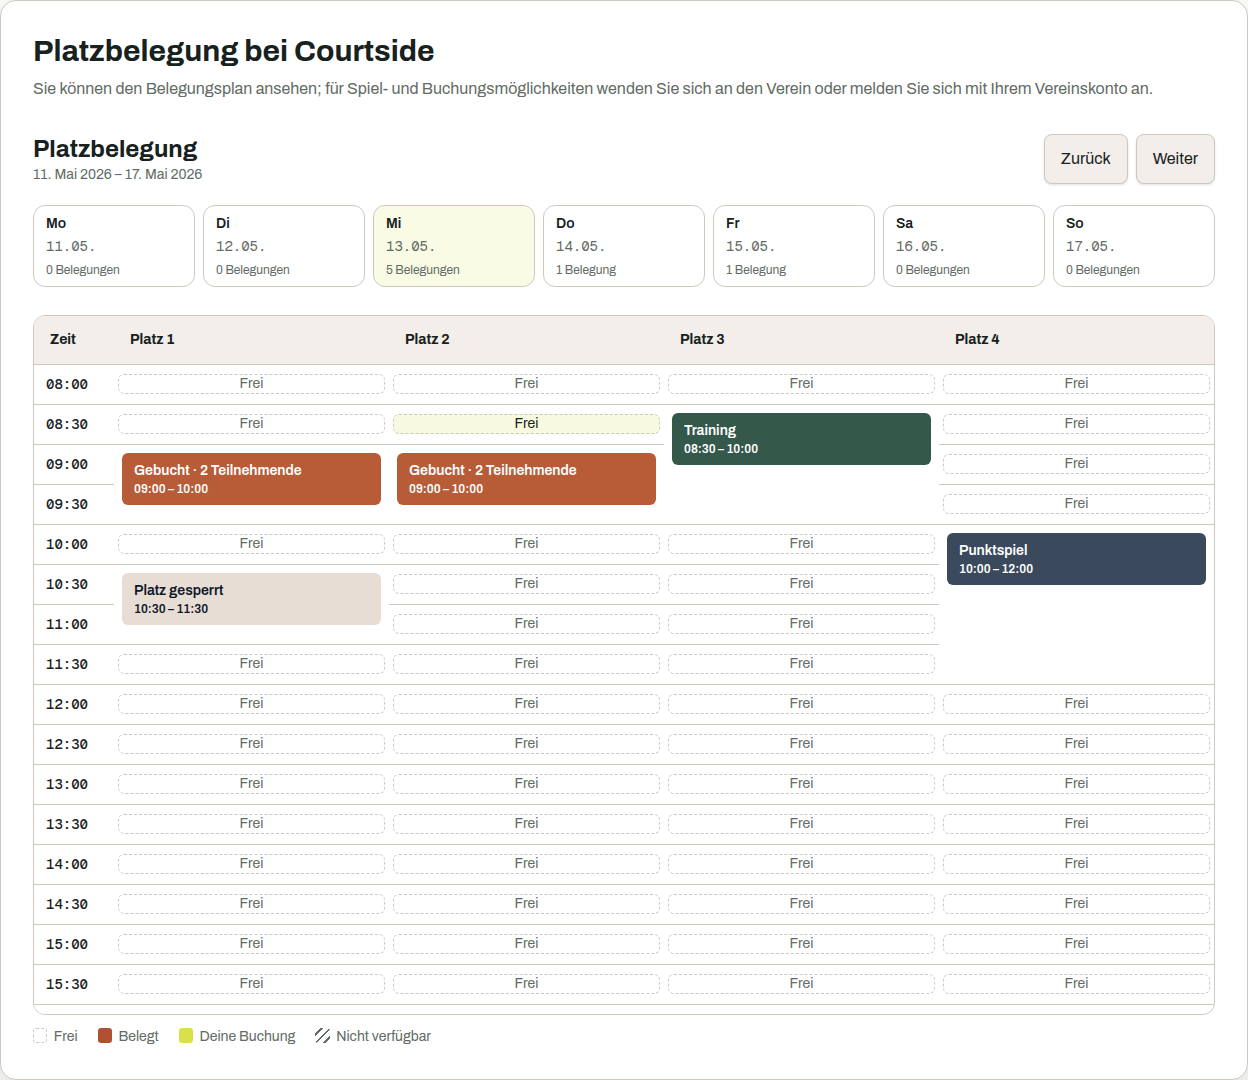
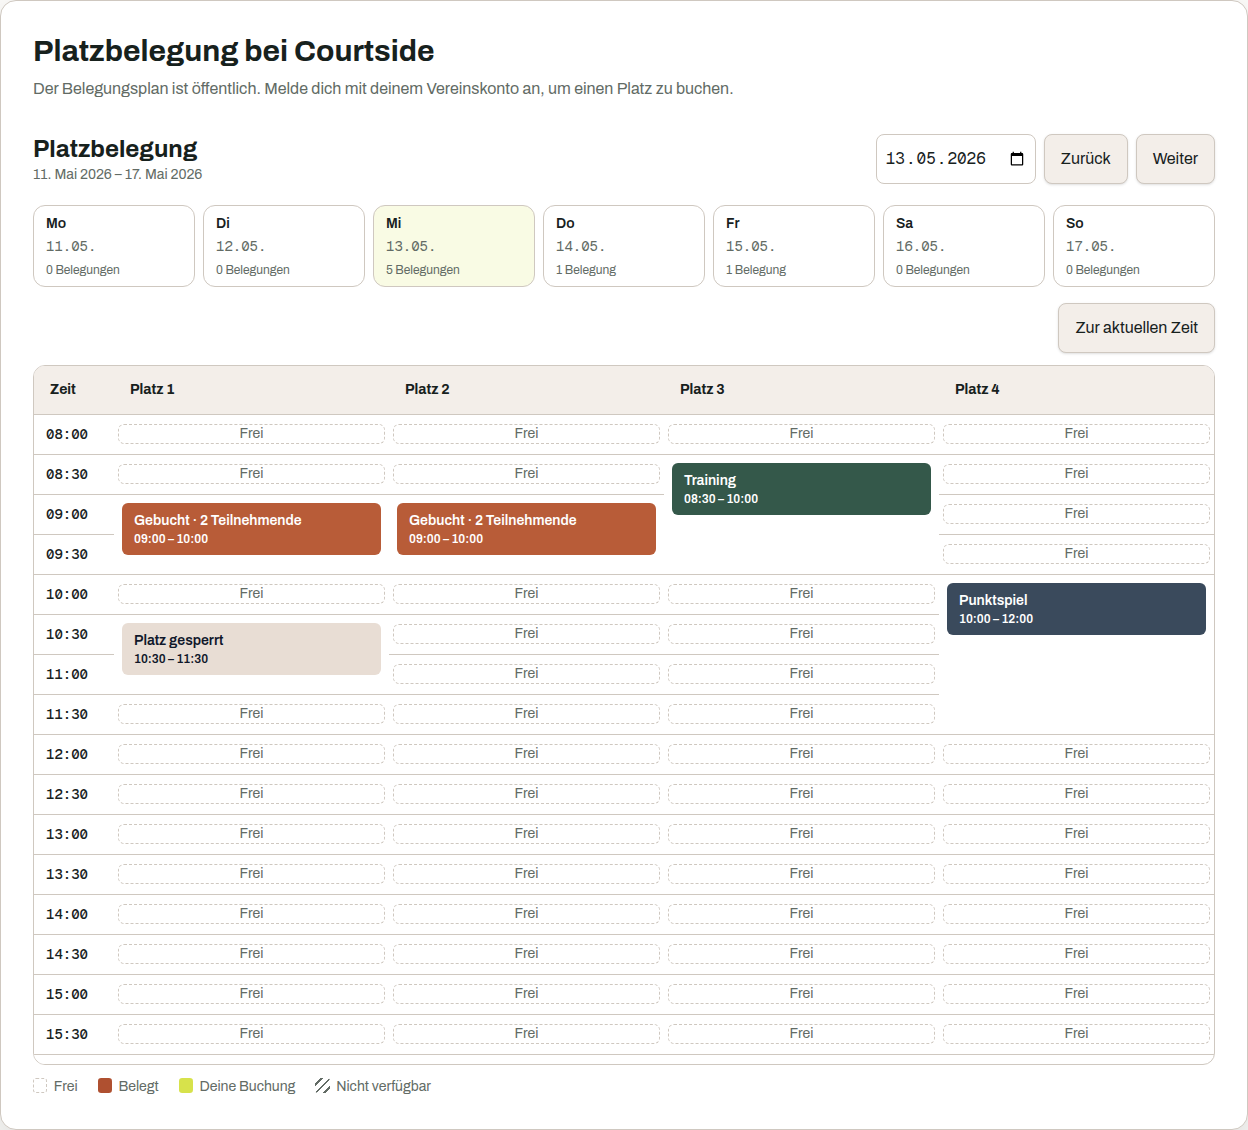
feat: let the court plan jump to a date (#993)
* feat: let the court plan jump to a date, and return to now from any week

Stepping a week at a time was the only way to reach a date on a wide screen.
The day cards offer the week on screen and nothing beyond it, so a club looking
at a date three months out clicked thirteen times to get there.

A date of its own now sits beside the week navigation. The mechanism was
already there: `selectDate` derives the week offset from the target date, which
is what the narrow layout's date field has always used, so choosing any day
moves the week with it. The narrow layout keeps its own sticky field, and the
new one is hidden below the width where that takes over, so neither duplicates
the other.

`Return to current time` was bound to `isToday`, so it disappeared exactly when
it was needed: on any other day there was no way back except counting weeks in
the other direction. Both member handbooks already told a member to "select
Return to current time to return to today" - the sentence was right and the
implementation never did it. The button is now always present and does the two
things its name covers: on today it scrolls to the current time as before, and
on any other day it returns to today, week included.

Falsified: the return case fails on its assertion when the button renders but
only scrolls, rather than on a missing element, so it measures the journey home
and not the button's presence.

The three court-plan captures moved and no other baseline did, which is the
[…]

diff --git a/frontend/src/views/WeekView.test.tsx b/frontend/src/views/WeekView.test.tsx
@@ -1271,3 +1271,43 @@ it("given the courts cannot be read, when the plan fails, then the failure is sh
   expect(await screen.findByRole("alert")).toHaveTextContent("That did not work. Please try again.");
   expect(screen.queryByTestId("court-plan-empty")).toBeNull();
 });
+
+it("given the wide layout, when a date in another week is chosen there, then that week is shown", async () => {
+  // given — the day cards only ever offer the week on screen, so jumping needs a date of its own
+  render(<WeekView today={clubInstant("12:00")} />);
+  await screen.findByTestId("week-grid");
+
+  // when
+  fireEvent.change(screen.getByTestId("week-date"), { target: { value: "2026-08-26" } });
+
+  // then
+  await waitFor(() => expect(api.allocations).toHaveBeenCalledWith("2026-08-26"));
+  expect(screen.getByTestId("week-date")).toHaveValue("2026-08-26");
+  expect(screen.getByTestId("day-selector-2026-08-26")).toHaveAttribute("aria-pressed", "true");
+});
+
+it("given the plan is still loading, when the date control is shown, then it cannot discard a selection", () => {
+  // given
+  vi.mocked(api.bookingGrid).mockImplementation(() => new Promise(() => undefined));
+
+  // when
+  render(<WeekView today={clubInstant("12:00")} />);
+
+  // then
+  expect(screen.getByTestId("week-date")).toBeDisabled();
+});
+
+it("given a day in another week, when returning to the current time, then today is shown again", async () => {
+  // given
+  render(<WeekView today={clubInstant("12:00")} />);
+  await screen.findByTestId("week-grid");
+  await userEvent.click(screen.getByTestId("week-next"));
+  await waitFor(() => expect(screen.getByTestId("selected-date")).toHaveValue("2026-08-17"));
+
+  // when
+  await userEvent.click(screen.getByTestId("current-time"));
+
+  // then
+  await waitFor(() => expect(screen.getByTestId("selected-date")).toHaveValue("2026-08-10"));
+  expect(await screen.findByTestId("current-time-line")).toBeInTheDocument();
+});

diff --git a/frontend/src/views/WeekView.tsx b/frontend/src/views/WeekView.tsx
@@ -222,6 +222,7 @@ export function WeekView({ today, clock = systemClock, canBook = true,
         {days.length > 0 && hasCourts && <p className="text-muted text-sm">{formatWeekRange(days, language)}</p>}
       </div>
       {(!data || hasCourts) && <div className="flex gap-2">
+        <input data-testid="week-date" type="date" value={selectedDate ?? ""} disabled={!data} onChange={(event) => selectDate(event.target.value)} aria-label={t("week.chooseDate")} className="desktop-week-date form-control rounded-lg border px-2" />
         <Button variant="secondary" type="button" data-testid="week-previous" onClick={() => setWeekOffset((offset) => offset - 1)} aria-label={t("week.previous")}>
           {t("week.previousShort")}
         </Button>
@@ -271,7 +272,9 @@ export function WeekView({ today, clock = systemClock, canBook = true,
     {!data && !error && <p className="mt-6" aria-live="polite">{t("status.loading")}</p>}
     {data && !hasCourts && <p data-testid="court-plan-empty" className="text-muted mt-6">{t("week.noCourtOpen")}</p>}
     {data && hasCourts && <div className="mt-4 flex justify-end">
-      {isToday && <Button variant="secondary" type="button" data-testid="current-time" onClick={() => scrollToSlot(planRef.current, currentSlot)}>{t("week.now")}</Button>}
+      <Button variant="secondary" type="button" data-testid="current-time" onClick={() => isToday
+        ? scrollToSlot(planRef.current, currentSlot)
+        : selectDate(dateInTimeZoneValue(currentInstant, data.grid.timeZone))}>{t("week.now")}</Button>
     </div>}
     {data && hasCourts && <div
       ref={planRef}

diff --git a/frontend/e2e/guide-screenshots.spec.ts b/frontend/e2e/guide-screenshots.spec.ts
@@ -37,6 +37,7 @@ const drivers: Record<string, (page: Page, visualDate: string) => Promise<void>>
     await page.goto("/");
     await expect(page.getByTestId("public-club-name")).toBeVisible();
     await selectVisualDate(page, visualDate);
+    await expectDesktopCourtPlanToFit(page);
   },
   "sign-in": async (page) => {
     await page.goto("/login");
@@ -323,4 +324,23 @@ async function selectVisualDate(page: Page, date: string): Promise<void> {
     await page.getByTestId("week-next").click();
   }
   await day.click();
+}
+
+async function expectDesktopCourtPlanToFit(page: Page): Promise<void> {
+  const layout = await page.getByTestId("court-plan-view").evaluate((plan) => {
+    const planBounds = plan.getBoundingClientRect();
+    const elements = [
+      plan.querySelector('[data-testid="week-date"]'),
+      ...plan.querySelectorAll('[data-testid^="day-selector-"]'),
+      plan.querySelector('[data-testid="week-grid"]')
+    ].filter((element): element is Element => element !== null);
+    return {
+      documentFits: document.documentElement.scrollWidth <= document.documentElement.clientWidth,
+      elementsFit: elements.every((element) => {
+        const bounds = element.getBoundingClientRect();
+        return bounds.left >= planBounds.left && bounds.right <= planBounds.right;
+      })
+    };
+  });
+  expect(layout).toEqual({ documentFits: true, elementsFit: true });
 }

diff --git a/frontend/src/styles.css b/frontend/src/styles.css
@@ -228,7 +228,8 @@ input[type="time"] {
 }
 
 @media (width < 1024px) {
-  .desktop-day-navigation {
+  .desktop-day-navigation,
+  .desktop-week-date {
     display: none;
   }
 

diff --git a/site/member-guide.md b/site/member-guide.md
@@ -8,9 +8,10 @@ und Menüpunkten stehen *kursiv*. Öffnungszeiten, Fristen und Obergrenzen legt 
 Die Startseite zeigt den Platzplan auch ohne Anmeldung. Auf einem großen Bildschirm siehst du eine
 Woche, auf einem schmalen Bildschirm einen Tag.
 
-1. Wähle *Vorherige Woche* oder *Nächste Woche*, um den Zeitraum zu wechseln.
-2. Wähle *Zur aktuellen Zeit*, um zum heutigen Tag zurückzukehren.
-3. Lies in der Legende, ob ein Zeitraum **Frei**, **Belegt**, **Deine Buchung**,
+1. Wähle unter *Datum auswählen* einen Tag, um direkt dorthin zu springen, auch über Wochen hinweg.
+2. Wähle *Vorherige Woche* oder *Nächste Woche*, um schrittweise zu blättern.
+3. Wähle *Zur aktuellen Zeit*, um zum heutigen Tag zurückzukehren. Das geht von jedem Zeitraum aus.
+4. Lies in der Legende, ob ein Zeitraum **Frei**, **Belegt**, **Deine Buchung**,
    **Nicht verfügbar** oder **Vergangen** ist.
 
 An geschlossenen Tagen zeigt Courtside kein Raster. Bei fremden Buchungen siehst du entweder die

diff --git a/site/en/member-guide.md b/site/en/member-guide.md
@@ -8,9 +8,10 @@ This handbook explains the features you need as a member. Button and menu names 
 The home page shows the court plan without requiring you to sign in. A wide screen shows one week.
 A narrow screen shows one day.
 
-1. Select *Previous week* or *Next week* to change the period.
-2. Select *Return to current time* to return to today.
-3. Use the legend to identify **Available**, **Occupied**, **Your booking**, **Unavailable** and
+1. Use *Choose date* to jump straight to a day, across weeks as well.
+2. Select *Previous week* or *Next week* to step through the periods.
+3. Select *Return to current time* to return to today. This works from any period.
+4. Use the legend to identify **Available**, **Occupied**, **Your booking**, **Unavailable** and
    **Past** periods.
 
 Courtside does not show a grid on days when the club is closed. Another member's booking displays
